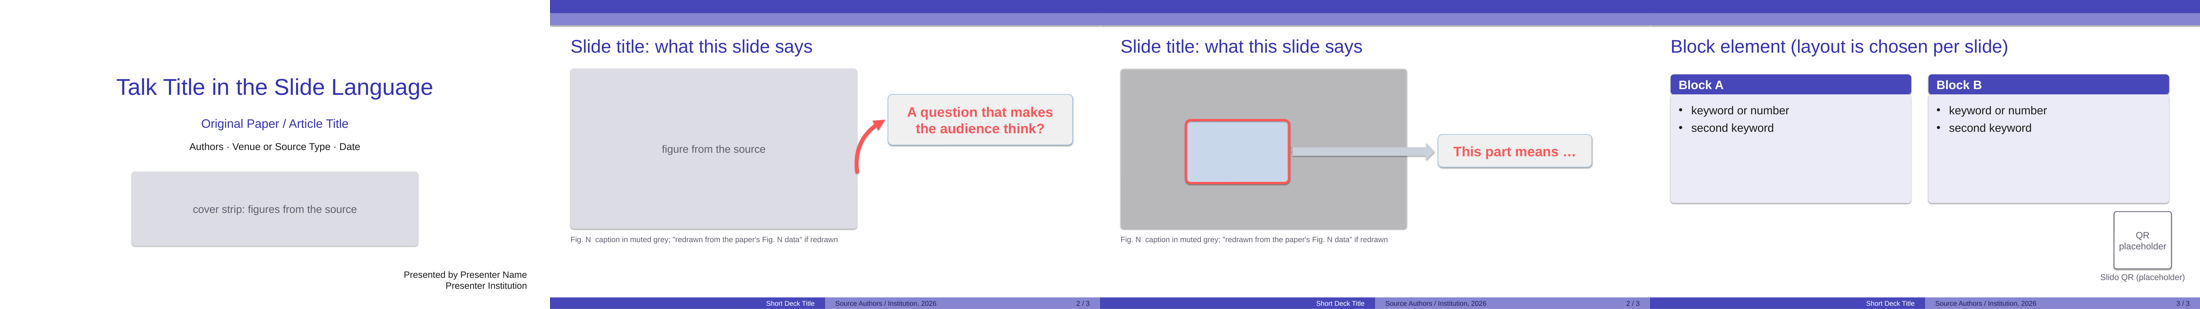
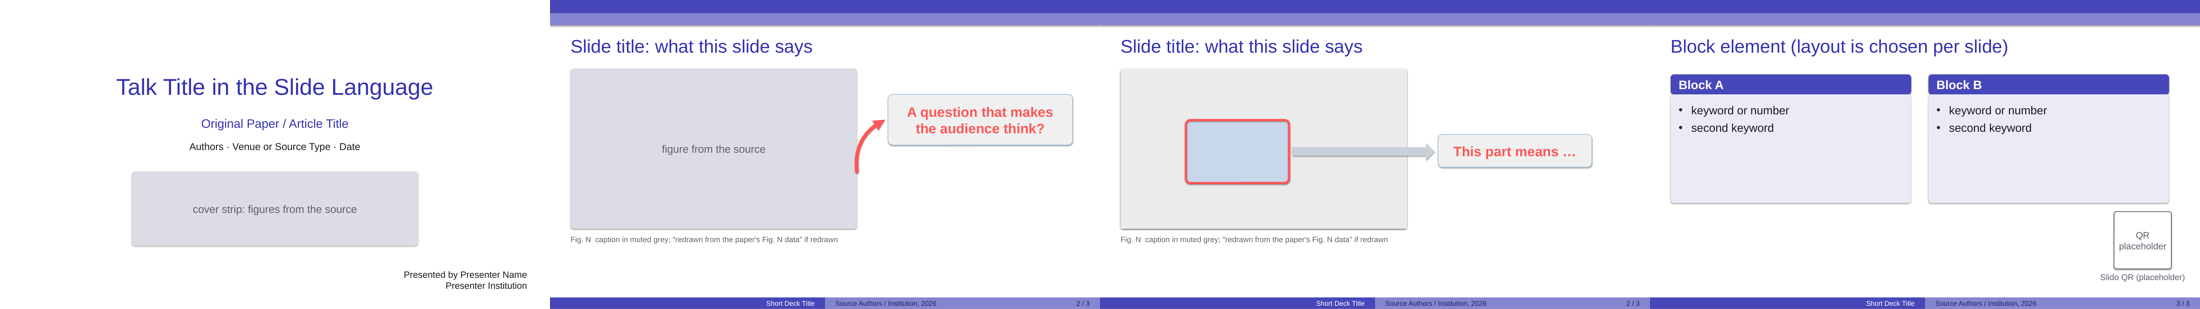
feat(slides): add dim_area() mask for dimming discussed content
Dim already-discussed content with a white mask (80% opacity, no outline, no shadow) over the whole region instead of fading each element. Earlier content stays readable for context, and because each build step is its own slide the effect survives PDF export.

- slide_kit: add dim_area(); dim() stays for fading a single element
- SKILL.md: make the mask the default way to dim; allow revealing a parallel list item by item when each item needs its own explanation and points back to a different earlier part of the talk
- pptx-techniques: document dim_area() and why builds use slides, not in-slide animation
- sample deck: step 2 uses dim_area(); preview regenerated
- bump version to 0.3.1

Changed region(s): [[0.4945, 0.2039, 0.6491, 0.7573]]

diff --git a/skills/paper-discussion-slides/scripts/build_sample_template.py b/skills/paper-discussion-slides/scripts/build_sample_template.py
@@ -2,7 +2,7 @@
 
 It shows the template chrome (header bands, title, footer halves with vertically centred
 text) and the standard building blocks: a callout connected by a curved arrow, a red frame
-with a block arrow to its callout, a dimmed element, and two build steps that share one page
+with a block arrow to its callout, a dimming mask over already-discussed content, and two build steps that share one page
 number. Open it to see how a finished slide should look, or copy its geometry.
 
     python build_sample_template.py [out.pptx]
@@ -12,7 +12,7 @@ import sys
 
 sys.path.insert(0, os.path.dirname(os.path.abspath(__file__)))
 from slide_kit import (new_deck, blank_slide, chrome, text, rect, callout, arc_arrow, frame,
-                       block_arrow, dim, bullets, block, qr, notes, MUTED, BLUE, GRAYBG)
+                       block_arrow, dim_area, bullets, block, qr, notes, MUTED, BLUE, GRAYBG)
 
 DECK = 'Short Deck Title'
 CREDIT = 'Source Authors / Institution, 2026'   # the work being discussed, not the presenter
@@ -49,15 +49,15 @@ def content(prs, step):
         arc_arrow(s, (1072, 600), (b[0] - 10, b[1] + b[3] / 2), bend=-0.35)
         notes(s, 'Build step 1 of 2 (same page number as step 2). Curved arrow: this leads to a question.')
     else:
-        dim(fig, 35000)
+        dim_area(s, 72, 240, 1000, 560)   # mask over what step 1 discussed
         f = (300, 420, 360, 220)
         rect(s, f[0], f[1], f[2], f[3], fill='C9D7EA', radius=12)
         frame(s, *f)
         _, b = callout(s, 1180, 470, ['This part means …'])
         block_arrow(s, f[0] + f[2] + 12, f[1] + f[3] / 2 - 30, b[0] - (f[0] + f[2]) - 24, 60, 'right')
-        notes(s, 'Build step 2 of 2: the previous callout and arrow are gone; the rest of the figure is dimmed only '
-                 'to show dimming; normally a frame circles part of an image and nothing is dimmed. Block arrow: '
-                 'this, therefore.')
+        notes(s, 'Build step 2 of 2: the previous callout and arrow are gone; the figure is dimmed with dim_area() only '
+                 'to show the mask (white, 80% opacity, no outline, no shadow); normally a frame circles part of an '
+                 'image and nothing is dimmed. Block arrow: this, therefore.')
     return s
 
 

diff --git a/skills/paper-discussion-slides/scripts/slide_kit.py b/skills/paper-discussion-slides/scripts/slide_kit.py
@@ -212,6 +212,20 @@ def dim(elements, amt=30000):
     return elements
 
 
+def dim_area(slide, x, y, w, h, fill='FFFFFF', opacity=80000):
+    """fade a region that was ALREADY discussed: a white mask over it (default for dimming).
+
+    One rectangle, `opacity` 80000 (= PowerPoint transparency 20%), no outline, no shadow, so the
+    earlier content stays readable for context while the eye goes to the current part. Cover a
+    whole group (picture + text + arrow of one row) with one mask. Because each build step is its
+    own slide, the effect survives PDF export. Opposite of `hide`, which covers what is still to come;
+    use `dim` only to fade a single element in place. Draw it after the content it covers."""
+    els = rect(slide, x, y, w, h, fill=fill, radius=0)
+    for c in els[0].iter(qn('a:srgbClr')):
+        c.append(c.makeelement(qn('a:alpha'), {'val': str(opacity)}))
+    return els
+
+
 def hide(slide, x, y, w, h, fill='FFFFFF', opacity=92000):
     """cover a part of an image that has NOT been explained yet (build by subtraction on a single image).
 

diff --git a/skills/paper-discussion-slides/SKILL.md b/skills/paper-discussion-slides/SKILL.md
@@ -38,6 +38,7 @@ Material comes first: the slides are built from the paper's own assets, collecte
   - No: the point is a relationship that is understood at a glance → keep it together on one slide.
 - Decide only by whether the point needs step-by-step explanation, not by page count. Splitting naturally adds pages; as long as every step has something to say (≥ 20 seconds), the time shows up in the script.
 - **Do not split parallel lists, simple introductions, or relationships that are obvious at a glance.**
+  - Exception: a list whose items each need their own explanation (≥ 20 seconds of script each) and point back to different earlier parts of the talk (e.g., "how reliable is each of the three results we saw?") may be revealed one item per step, dimming the items already discussed with `dim_area()`. The audience then looks at one item while the earlier ones stay visible for context.
 
 Read `references/examples.md` before building: it has the full positive and negative examples (an opening build, a composition relationship, an over-split parallel list).
 
@@ -45,14 +46,15 @@ Read `references/examples.md` before building: it has the full positive and nega
 1. Build the complete slide first.
 2. Duplicate it several times and, in each copy, delete what has not been explained yet. The first step is mostly empty; show only what has been said; the last step equals the complete slide.
    - **When the slide is one image whose parts are explained in turn** (a pipeline figure, a diagram), there is nothing separate to delete. Prefer cropping the image into its parts and placing them as separate pictures; if the parts cannot be separated cleanly, cover the parts not yet explained with `hide()` (an opaque white cover) and remove the cover on the step that explains that part.
-   - `hide()` and `dim()` are opposites: `hide` covers what is **still to come**; `dim` fades what was **already discussed** so the current element stands out. Do not use one for the other.
+   - `hide()` and `dim_area()` / `dim()` are opposites: `hide` covers what is **still to come**; dimming fades what was **already discussed** so the current element stands out. Do not use one for the other.
+   - **Dim with a mask by default:** to fade already-discussed content, lay `dim_area()` over it: one white rectangle at 80% opacity (PowerPoint "transparency 20%"), no outline, no shadow, covering the whole group (picture, text and arrows of one row together). Earlier content stays readable for context while the eye goes to the current part. A mask is one shape the speaker can adjust in PowerPoint, and because every build step is its own slide (not an in-slide animation), the build survives export to PDF and handouts unchanged. Use `dim()` only to fade a single element in place.
 3. All build steps of one concept share one page number, because logically they are one slide.
 4. Every build step needs at least 20 seconds of script. If a step only gets one sentence, it is split too finely; merge it.
 
 ### Red frames and callouts
 - A red frame marks only the part that is new or being discussed on this step; the callout states what that part means; the script explains it in detail.
 - A frame lives only on the step that discusses it. When the focus moves on, remove the old frame so it does not distract.
-- **Red frame vs. dimming:** use a red frame only to circle *a part of one image*. When the subject is a whole image or a whole element (e.g., the third of three pictures), do not frame it; dim the other (already discussed) elements instead.
+- **Red frame vs. dimming:** use a red frame only to circle *a part of one image*. When the subject is a whole image or a whole element (e.g., the third of three pictures), do not frame it; dim the other (already discussed) elements instead (`dim_area()` over them).
 
 ### Arrows: connect what is being discussed to its callout
 - Do not leave a callout floating in a corner. Draw an arrow from the element (or red frame) being discussed to its callout, so the audience sees at once what the sentence explains.
@@ -170,7 +172,7 @@ The goal is for the room to think together, not one person talking while everyon
 
 ## 10. Building PPTX files
 
-When building with python-pptx, read `references/pptx-techniques.md` first and use the helpers in this skill's `scripts/slide_kit.py` (template header / title / footer, callouts that fit their text and can be centred, curved and block arrows, red frames, dimming and hiding, native bar charts with negative values, real bullet lists, titled blocks in the template's colours, autoplaying and looping videos, QR codes, coordinate conversion). Use `bullets()` for lists instead of typing '•' (a typed bullet has different widths in CJK and Latin text, so wrapped lines misalign). Check the result with `scripts/render_check.py`: it renders every page, a thumbnail sheet for layout, and `footers.png`, a full-resolution strip of every footer.
+When building with python-pptx, read `references/pptx-techniques.md` first and use the helpers in this skill's `scripts/slide_kit.py` (template header / title / footer, callouts that fit their text and can be centred, curved and block arrows, red frames, dimming masks and hiding, native bar charts with negative values, real bullet lists, titled blocks in the template's colours, autoplaying and looping videos, QR codes, coordinate conversion). Use `bullets()` for lists instead of typing '•' (a typed bullet has different widths in CJK and Latin text, so wrapped lines misalign). Check the result with `scripts/render_check.py`: it renders every page, a thumbnail sheet for layout, and `footers.png`, a full-resolution strip of every footer.
 
 ## 11. Final checklist
 
@@ -179,7 +181,7 @@ When building with python-pptx, read `references/pptx-techniques.md` first and u
 - [ ] Builds are used only for points that need step-by-step guidance; parallel lists and at-a-glance relationships are not split; points that need a build were not crammed into one slide to save pages
 - [ ] Each slide's presentation was chosen for the point it makes
 - [ ] Every term has its full name + plain explanation on first use; no glossary slide
-- [ ] Red frames appear only on their own step and were zoom-checked for alignment; whole elements are dimmed, not framed
+- [ ] Red frames appear only on their own step and were zoom-checked for alignment; whole elements are dimmed, not framed; dimming masks have no outline or shadow
 - [ ] Every callout is connected by an arrow to what it explains; boxes fit the text; text is about 36 pt
 - [ ] About 1 minute of script per slide; at least 20 seconds per build step
 - [ ] Template chosen in the order of section 8; footer credit names the source, presenter is on the cover

diff --git a/skills/paper-discussion-slides/references/pptx-techniques.md b/skills/paper-discussion-slides/references/pptx-techniques.md
@@ -2,7 +2,8 @@
 
 - Start every deck with `new_deck()` (default template) or `new_deck('their-template.pptx')` (the user's template; its masters, theme fonts and colours come along) and add slides with `blank_slide()`. Duplicate slides from the user's PPTX (deep-copy the `spTree` and remap the relationships, then delete the originals) only when it contains slides whose content should be reused, such as a fixed cover. `assets/sample-template.pptx` is a reference to look at, not a file to open and edit.
 - Embed videos with `video()`: it calls `add_movie` with a poster frame and rebuilds the slide's `<p:timing>` so that every video on the slide autoplays together when the slide appears and loops (muted by default). If a file is too large, re-encode with ffmpeg (e.g., crf 28, width 1280) or paper-project-setup's `asset_tools.py shrink`. LibreOffice renders only the poster, so test playback in PowerPoint.
-- Dimming: add `alphaModFix` to an image's `blip`, and `alpha` to `srgbClr` colours.
+- Dimming: prefer a mask (`dim_area()`): a white rectangle whose `srgbClr` has `alpha` 80000, `a:ln` with `a:noFill`, and no inherited shadow, placed over the already-discussed region. To fade one element in place instead, add `alphaModFix` to an image's `blip`, and `alpha` to `srgbClr` colours (`dim()`).
+- Builds are separate slides, not in-slide animations, so every step is kept when the deck is exported to PDF or printed.
 - Rounded corners: set the `ROUNDED_RECTANGLE` adjustment from the box size.
 - Curved arrows: sample about 30 points of a quadratic Bézier curve and draw them as an open polyline with `build_freeform`; no fill, thick red line (about 10 pt), and add `a:tailEnd type="triangle"` and `cap="rnd"` to `a:ln`. Place the control point at the midpoint, offset perpendicular to the line by about 0.35–0.45 × the distance between the ends.
 - Block arrows: `MSO_SHAPE.DOWN_ARROW` / `RIGHT_ARROW` etc., solid light grey-blue, no outline.
@@ -22,7 +23,8 @@
 | `sub(box, tl, br, pad)` | Convert fractional coordinates measured on the original asset into slide coordinates |
 | `arc_arrow(slide, p0, p1, bend)` | Red curved arrow; the sign of `bend` sets the direction, near 0 is straight |
 | `block_arrow(slide, x, y, w, h, direction)` | Solid light grey-blue block arrow |
-| `dim(elements, amt)` | Fade elements that were already discussed |
+| `dim_area(slide, x, y, w, h, opacity=80000)` | Default way to fade already-discussed content: a white mask (80% opacity, no outline, no shadow) over a whole region; survives PDF export because each build step is its own slide |
+| `dim(elements, amt)` | Fade a single element in place (alpha on its own picture / colours) |
 | `hide(slide, x, y, w, h)` | Cover a part of an image that has not been explained yet (build by subtraction on one image) |
 | `picture(slide, path, x, y, w, h)` | Fit an image into a box keeping its aspect ratio; returns the box it actually covers (for `sub`) |
 | `hbars(slide, x, y, rows, vmin=0, vmax=100, ...)` | Native horizontal bar chart; `vmin < 0` draws a zero line and negative bars; returns each bar's position (for arrows) |

diff --git a/README.md b/README.md
@@ -128,7 +128,7 @@ posters <video> --at 0.1 0.5 0.9            extract still frames (needs ffmpeg)
 check   <dir>                               verify every manifest file exists and opens
 ```
 
-**`slide_kit.py`** — python-pptx helpers: `chrome()` (template header / title / footer), `callout()`, `frame()`, `arc_arrow()`, `block_arrow()`, `bullets()`, `hbars()`, `video()`, `qr()`, `notes()`, `dim()` / `hide()` for progressive builds.
+**`slide_kit.py`** — python-pptx helpers: `chrome()` (template header / title / footer), `callout()`, `frame()`, `arc_arrow()`, `block_arrow()`, `bullets()`, `hbars()`, `video()`, `qr()`, `notes()`, `dim_area()` (dimming mask, default) / `dim()` / `hide()` for progressive builds.
 
 **`render_check.py`** — page renders, a thumbnail sheet and a footer zoom strip, so frames and alignment are checked visually rather than assumed.
 
